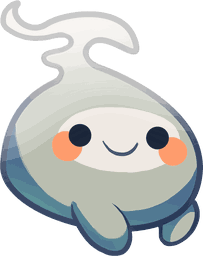
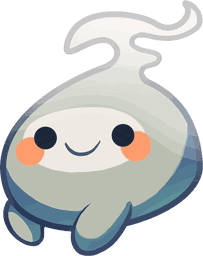
Practice: animated squishies, hurt looks, art as drawn, rigged Antbun
- Sprites now face the way the artist drew them (no mirroring).
- Each squishy has a healthy and a hurt look (the '2' pictures), shown
  below half health.
- Movement per kind: Chomp and Moley waddle, Skitter hops, ChompKing and
  the Brood Queen stomp with a squash on landing, ghosts float, the Flyer
  flies, the Kamikaze rolls.
- The Antbun is built from the parts in the artist's PSD: body poses for
  the hop, flopping ears, blinking, an eye-pop and open mouth when hit,
  the pink skull-showing Hurt set below half health, and the nine-frame
  death animation (shock, burst into blobs, puddle).

Claude-Session: https://claude.ai/code/session_01KjbiH1Gxo3FA48ifQDakKd

diff --git a/practice.js b/practice.js
@@ -10,19 +10,23 @@ const Practice = (() => {
     mortar:  { name: 'Mortar', cost: 225, every: 7, dmg: 90, splash: 1.4, recharge: 12, hp: 100, blurb: 'big blast every 7 s' },
     mg:      { name: 'Machine gun', cost: 300, every: 1 / 3, dmg: 10, speed: 9, recharge: 12, hp: 100, blurb: '3 bullets a second' },
   };
-  // the squishies (art in art/squishies). size is relative to a cell; 'from' is the first level they appear
+  // the squishies (art in art/squishies, drawn facing left as supplied). size is relative to a cell;
+  // 'from' is the first level they appear; look.hurt shows once they are below half health
   const SQUISHIES = {
-    chomp:      { name: 'Chomp',      hp: 100, speed: .20, chomp: 25, size: 1.0,  from: 1, art: ['chomp1', 'chomp2'], color: '#b8d0a8' },
-    skitter:    { name: 'Skitter',    hp: 60,  speed: .42, chomp: 25, size: .74,  from: 2, art: ['skitter1', 'skitter2'], color: '#d49496' },
-    chompking:  { name: 'ChompKing',  hp: 320, speed: .14, chomp: 35, size: 1.3,  from: 3, art: ['chompking'], color: '#9ec9c0' },
-    antbun:     { name: 'Antbun',     hp: 200, speed: .26, chomp: 25, size: 1.0,  from: 4, art: ['antbun1', 'antbun3'], dead: 'antbunskelly', color: '#bda7cd' },
-    kamikaze:   { name: 'Kamikaze',   hp: 90,  speed: .30, chomp: 0,  size: .92,  from: 5, art: ['kamikaze1', 'kamikaze2'], color: '#ddb8a4', boom: true },
-    ghost:      { name: 'Ghost',      hp: 80,  speed: .30, chomp: 25, size: 1.0,  from: 6, art: ['ghost1', 'ghost2'], color: '#a6a0aa', pass: 1, alpha: .85 },
-    flying:     { name: 'Flyer',      hp: 70,  speed: .36, chomp: 0,  size: .9,   from: 7, art: ['flying1', 'flying2'], color: '#b9bcc5', pass: 99, fly: true },
-    moley:      { name: 'Moley',      hp: 150, speed: .22, chomp: 30, size: .95,  from: 8, art: ['moley'], color: '#e0c888', digs: true },
-    broodqueen: { name: 'Brood Queen', hp: 900, speed: .10, chomp: 40, size: 1.4, from: 6, art: ['broodqueen1', 'broodqueen2'], color: '#c0acb6', boss: true, brood: 9 },
-    ghostking:  { name: 'Ghost King', hp: 700, speed: .16, chomp: 35, size: 1.35, from: 9, art: ['ghostking'], color: '#aca9a2', boss: true, pass: 2, alpha: .85 },
+    chomp:      { name: 'Chomp',      hp: 100, speed: .20, chomp: 25, size: 1.0,  from: 1, look: { ok: 'chomp1', hurt: 'chomp2' }, motion: 'waddle', color: '#b8d0a8' },
+    skitter:    { name: 'Skitter',    hp: 60,  speed: .42, chomp: 25, size: .74,  from: 2, look: { ok: 'skitter1', hurt: 'skitter2' }, motion: 'hop', color: '#d49496' },
+    chompking:  { name: 'ChompKing',  hp: 320, speed: .14, chomp: 35, size: 1.3,  from: 3, look: { ok: 'chompking1', hurt: 'chompking2' }, motion: 'stomp', color: '#9ec9c0' },
+    antbun:     { name: 'Antbun',     hp: 200, speed: .26, chomp: 25, size: 1.05, from: 4, look: { ok: 'antbun1' }, motion: 'hop', rig: true, color: '#bda7cd' },
+    kamikaze:   { name: 'Kamikaze',   hp: 90,  speed: .30, chomp: 0,  size: .92,  from: 5, look: { ok: 'kamikaze1', hurt: 'kamikaze2' }, motion: 'roll', color: '#ddb8a4', boom: true },
+    ghost:      { name: 'Ghost',      hp: 80,  speed: .30, chomp: 25, size: 1.0,  from: 6, look: { ok: 'ghost1', hurt: 'ghost2' }, motion: 'float', color: '#a6a0aa', pass: 1, alpha: .88 },
+    flying:     { name: 'Flyer',      hp: 70,  speed: .36, chomp: 0,  size: .9,   from: 7, look: { ok: 'flying1', hurt: 'flying2' }, motion: 'fly', color: '#b9bcc5', pass: 99, fly: true },
+    moley:      { name: 'Moley',      hp: 150, speed: .22, chomp: 30, size: .95,  from: 8, look: { ok: 'moley' }, motion: 'waddle', color: '#e0c888', digs: true },
+    broodqueen: { name: 'Brood Queen', hp: 900, speed: .10, chomp: 40, size: 1.4, from: 6, look: { ok: 'broodqueen1', hurt: 'broodqueen2' }, motion: 'stomp', color: '#c0acb6', boss: true, brood: 9 },
+    ghostking:  { name: 'Ghost King', hp: 700, speed: .16, chomp: 35, size: 1.35, from: 9, look: { ok: 'ghostking' }, motion: 'float', color: '#aca9a2', boss: true, pass: 2, alpha: .88 },
   };
+  // the Antbun is a rigged character: separate parts in a 320-wide box, positions from the artist's PSD
+  const ANTBUN = {"parts": {"dead_leftarm": [65, 18, 88, 116], "dead_body": [0, 43, 242, 210], "dead_skull": [16, 91, 177, 127], "dead_arm": [155, 189, 46, 40], "dead_rightear": [153, 31, 167, 106], "hurt_leftear": [65, 20, 88, 116], "hurt_body": [0, 43, 243, 210], "hurt_righteyeclose": [98, 161, 31, 10], "hurt_righteyeopen": [98, 154, 30, 30], "hurt_arm": [165, 170, 48, 53], "hurt_rightear": [140, 31, 177, 131], "leftear": [68, 0, 132, 131], "body": [0, 55, 250, 198], "body2": [10, 87, 239, 179], "body3": [10, 87, 242, 176], "eyesopen": [31, 149, 98, 36], "rightear": [140, 31, 177, 131], "eyepopping": [96, 141, 58, 58], "eyesclose": [32, 155, 98, 15], "arm": [166, 171, 45, 52]}, "box": [320, 266], "death": {"w": 320, "h": 322, "body": [50, 95, 234, 187]}};
+  const ANTBUN_PARTS = Object.keys(ANTBUN.parts);
   const SPRITES = {};   // art key -> Image
   function levelSpec(n) {
     const weights = {};
@@ -63,7 +67,7 @@ const Practice = (() => {
       S.lastRows.push(row); if (S.lastRows.length > 2) S.lastRows.shift();
     }
     const x = opts.x != null ? opts.x : k.digs ? 3 + Math.random() * (COLS - 5) : COLS + .4 + Math.random() * .3;
-    const sq = { type, k, row, x, hp: k.hp, art: k.art[Math.floor(Math.random() * k.art.length)], phase: Math.random() * 7,
+    const sq = { type, k, row, x, hp: k.hp, phase: Math.random() * 7, blink: 2 + Math.random() * 3,
       eating: null, flash: 0, wob: 0, pass: k.pass || 0, passedCol: -1, brood: k.brood || 0, rise: k.digs ? 1 : 0 };
     S.squishies.push(sq);
     if (k.digs) S.fx.push({ kind: 'dirt', x, row, t: 0 });
@@ -77,7 +81,8 @@ const Practice = (() => {
     if (sq.hp <= 0 && !sq.dead) {
       sq.dead = true;
       S.fx.push({ kind: 'splat', x: sq.x, row: sq.row, t: 0, color: sq.k.color, size: sq.k.size });
-      S.fx.push({ kind: 'melt', x: sq.x, row: sq.row, t: 0, art: sq.k.dead || sq.art, size: sq.k.size, bones: !!sq.k.dead, fly: !!sq.k.fly });
+      if (sq.k.rig) S.fx.push({ kind: 'abdeath', x: sq.x, row: sq.row, t: 0, size: sq.k.size });
+      else S.fx.push({ kind: 'melt', x: sq.x, row: sq.row, t: 0, art: lookOf(sq), size: sq.k.size, fly: !!sq.k.fly });
     }
   }
 
@@ -181,7 +186,7 @@ const Practice = (() => {
     S.shells = S.shells.filter(s => !s.gone);
     // effects
     for (const f of S.fx) f.t += dt;
-    S.fx = S.fx.filter(f => f.t < (f.kind === 'boom' ? .5 : f.kind === 'splat' || f.kind === 'melt' ? .6 : .8));
+    S.fx = S.fx.filter(f => f.t < (f.kind === 'boom' ? .5 : f.kind === 'splat' || f.kind === 'melt' ? .6 : f.kind === 'abdeath' ? 1.4 : .8));
     for (const f of S.floats) f.t += dt;
     S.floats = S.floats.filter(f => f.t < 1);
     S.squishies = S.squishies.filter(s => !s.dead);
@@ -283,22 +288,57 @@ const Practice = (() => {
     g.globalAlpha = alpha; g.drawImage(im, x - iw / 2, y - ih, iw, ih); g.globalAlpha = 1;
     return true;
   }
+  const lookOf = sq => (sq.k.look.hurt && sq.hp < sq.k.hp * .5) ? sq.k.look.hurt : sq.k.look.ok;
+  // how each kind of squishy moves: returns {dy (cells), rot, sx, sy}
+  function motionOf(sq) {
+    const t = sq.wob, k = sq.k, m = k.motion;
+    if (sq.eating) return { dy: 0, rot: Math.sin(t * 16) * .06, sx: 1, sy: 1 };
+    if (m === 'hop' || m === 'stomp') {
+      const P = m === 'hop' ? (k.rig ? .55 : .42) : 1.1, hopH = m === 'hop' ? .2 : .12;
+      const ph = ((t + sq.phase) / P) % 1, land = Math.max(0, 1 - ph * 5), air = Math.sin(ph * Math.PI);
+      return { dy: -air * hopH, rot: 0, sx: 1 + .14 * land - .05 * air, sy: 1 - .18 * land + .07 * air, ph };
+    }
+    if (m === 'waddle') { const s = Math.sin(t * 7 + sq.phase); return { dy: -Math.abs(s) * .04, rot: s * .07, sx: 1 + .03 * Math.abs(s), sy: 1 - .03 * Math.abs(s) }; }
+    if (m === 'float') return { dy: -.1 - .1 * Math.sin(t * 2.5 + sq.phase), rot: .05 * Math.sin(t * 1.7 + sq.phase), sx: 1, sy: 1 };
+    if (m === 'fly') return { dy: -.28 - .08 * Math.sin(t * 5 + sq.phase), rot: -.08, sx: 1, sy: 1 };
+    if (m === 'roll') return { dy: -Math.abs(Math.sin(t * 6)) * .03, rot: -(COLS - sq.x) * 3.2, sx: 1, sy: 1 };
+    return { dy: 0, rot: 0, sx: 1, sy: 1 };
+  }
+  // the rigged Antbun: parts drawn in order, ears flopping with the hop, blinking, hit reaction, hurt set below half health
+  function drawAntbun(g, sq, w, mo) {
+    const f = w / ANTBUN.box[0], hurt = sq.hp < sq.k.hp * .5, hit = sq.flash > 0;
+    const part = (name, rot = 0, px = 0, py = 0) => {
+      const b = ANTBUN.parts[name], im = SPRITES['antbun/' + name]; if (!b || !im || !im.complete) return;
+      g.save(); g.translate((b[0] + px) * f, (b[1] + py) * f); g.rotate(rot); g.drawImage(im, -px * f, -py * f, b[2] * f, b[3] * f); g.restore();
+    };
+    const flop = mo.ph == null ? 0 : Math.sin(mo.ph * Math.PI * 2 - .8) * .18;
+    g.save(); g.translate(-ANTBUN.box[0] * f / 2, -ANTBUN.box[1] * f);   // parts are placed from the box's top-left; we draw from the feet
+    if (hurt) {
+      part('hurt_rightear', -flop * .8, 12, 118); part('hurt_body'); part('hurt_leftear', flop, 20, 112); part('hurt_arm');
+      part(sq.blink < .15 ? 'hurt_righteyeclose' : 'hurt_righteyeopen');
+    } else {
+      part('rightear', -flop * .8, 12, 118);
+      part(hit ? 'body3' : mo.ph != null && mo.ph < .2 ? 'body2' : 'body');
+      part('leftear', flop, 20, 128); part('arm');
+      if (hit) part('eyepopping'); else part(sq.blink < .15 ? 'eyesclose' : 'eyesopen');
+    }
+    g.restore();
+  }
   function drawSquishy(g, sq, x, y, s) {
-    const k = sq.k, w = s * k.size;
-    const bob = k.fly ? Math.sin(sq.wob * 5 + sq.phase) * s * .12 - s * .35 : 0;
-    const sx = 1 + .06 * Math.sin(sq.wob * 7 + sq.phase), sy = 1 - .06 * Math.sin(sq.wob * 7 + sq.phase);
+    const k = sq.k, w = s * k.size, mo = motionOf(sq);
+    if (sq.rise <= 0) sq.blink -= 1 / 60; if (sq.blink < 0) sq.blink = 2 + Math.random() * 3;
     const foot = y + s * .42;
     g.save();
-    // shadow
-    g.fillStyle = 'rgba(0,0,0,.16)'; g.beginPath(); g.ellipse(x, foot, w * .38, w * .1, 0, 0, 7); g.fill();
-    g.translate(x, foot + bob);
+    // shadow stays on the ground; smaller when the squishy is in the air
+    const air = Math.max(0, -mo.dy); g.fillStyle = 'rgba(0,0,0,.16)'; g.beginPath(); g.ellipse(x, foot, w * .38 * (1 - air * .4), w * .1 * (1 - air * .4), 0, 0, 7); g.fill();
+    g.translate(x, foot + mo.dy * s);
     if (sq.rise > 0) { g.beginPath(); g.rect(-w, -w * 2, w * 2, w * 2 * (1 - sq.rise)); g.clip(); g.translate(0, w * sq.rise); }   // moley rising out of the ground
-    if (sq.eating) g.rotate(Math.sin(sq.wob * 16) * .06);
-    g.scale(sx, sy);
-    if (!drawSprite(g, sq.art, 0, 0, w, k.alpha || 1)) {
-      g.fillStyle = k.color; g.beginPath(); g.ellipse(0, -w * .4, w * .4, w * .4, 0, 0, 7); g.fill();
-    }
-    if (sq.flash > 0) { g.globalCompositeOperation = 'lighter'; drawSprite(g, sq.art, 0, 0, w, .7); g.globalCompositeOperation = 'source-over'; }
+    if (k.motion === 'roll') { g.translate(0, -w * .45); g.rotate(mo.rot); g.translate(0, w * .45); } else g.rotate(mo.rot);
+    g.scale(mo.sx, mo.sy);
+    if (k.alpha) g.globalAlpha = k.alpha;
+    if (k.rig) drawAntbun(g, sq, w, mo);
+    else if (!drawSprite(g, lookOf(sq), 0, 0, w, k.alpha || 1)) { g.fillStyle = k.color; g.beginPath(); g.ellipse(0, -w * .4, w * .4, w * .4, 0, 0, 7); g.fill(); }
+    if (sq.flash > 0 && !k.rig) { g.globalCompositeOperation = 'lighter'; drawSprite(g, lookOf(sq), 0, 0, w, .7); g.globalCompositeOperation = 'source-over'; }
     g.restore();
     if (k.boss) {   // boss health bar
       g.fillStyle = 'rgba(0,0,0,.35)'; g.fillRect(x - w * .35, foot + s * .08, w * .7, s * .07);
@@ -359,11 +399,20 @@ const Practice = (() => {
         for (let i = 0; i < 7; i++) { const a = i * .9 + f.x, d = cell * f.size * (.2 + p * .6); ctx.beginPath(); ctx.arc(x + Math.cos(a) * d, y + Math.sin(a) * d * .6, cell * .08 * (1 - p) + 1, 0, 7); ctx.fill(); }
         ctx.globalAlpha = 1;
       } else if (f.kind === 'melt') {
-        const p = f.t / .6, w = cell * f.size, foot = y + cell * .42 - (f.fly ? cell * .35 : 0);
+        const p = f.t / .6, w = cell * f.size, foot = y + cell * .42 - (f.fly ? cell * .28 : 0);
         ctx.save(); ctx.translate(x, foot);
         if (f.bones) { drawSprite(ctx, f.art, 0, 0, w, 1 - p); }
         else { ctx.scale(1 + p * .5, Math.max(.05, 1 - p)); drawSprite(ctx, f.art, 0, 0, w, 1 - p * .7); }
         ctx.restore();
+      } else if (f.kind === 'abdeath') {
+        // nine frames from the artist's death animation, then the puddle fades
+        const n = Math.min(9, 1 + Math.floor(f.t / .1)), im = SPRITES['antbun/death' + n];
+        if (im && im.complete) {
+          const w = cell * f.size, fd = w / ANTBUN.death.body[2], bb = ANTBUN.death.body, foot = y + cell * .42;
+          ctx.globalAlpha = f.t > 1 ? Math.max(0, 1 - (f.t - 1) / .4) : 1;
+          ctx.drawImage(im, x - (bb[0] + bb[2] / 2) * fd, foot - (bb[1] + bb[3]) * fd, ANTBUN.death.w * fd, ANTBUN.death.h * fd);
+          ctx.globalAlpha = 1;
+        }
       } else if (f.kind === 'dirt') {
         const p = f.t / .8; ctx.fillStyle = `rgba(110,75,40,${1 - p})`;
         for (let i = 0; i < 8; i++) { const a = i * .8 + .3; ctx.beginPath(); ctx.arc(x + Math.cos(a) * p * cell * .7, y + cell * .3 - Math.sin(a) * p * cell * .9 + p * p * cell * .8, cell * .07, 0, 7); ctx.fill(); }
@@ -534,7 +583,11 @@ const Practice = (() => {
     cv = root.querySelector('#pcv'); ctx = cv.getContext('2d');
     document.body.classList.add('noscroll');
     root.querySelector('#phome').onclick = () => { if (opts.home) opts.home(); };
-    for (const k in SQUISHIES) for (const a of [...SQUISHIES[k].art, SQUISHIES[k].dead].filter(Boolean)) if (!SPRITES[a]) { const im = new Image(); im.src = 'art/squishies/' + a + '.png'; SPRITES[a] = im; }
+    const arts = [];
+    for (const k in SQUISHIES) arts.push(...Object.values(SQUISHIES[k].look));
+    for (const n of ANTBUN_PARTS) arts.push('antbun/' + n);
+    for (let i = 1; i <= 9; i++) arts.push('antbun/death' + i);
+    for (const a of arts) if (!SPRITES[a]) { const im = new Image(); im.src = 'art/squishies/' + a + '.png'; SPRITES[a] = im; }
     S = null; newLevel(sv.level || 1);
     renderShop(); layout(); refreshShop();
     cv.addEventListener('pointerdown', onCanvasTap);

diff --git a/sw.js b/sw.js
@@ -1,9 +1,9 @@
 // Offline support. Always tries the network first so updates appear straight
 // away; falls back to the saved copy when there is no connection.
-const CACHE = 'latin-v6';
+const CACHE = 'latin-v7';
 const FILES = ['./', 'index.html', 'app.css', 'app.js', 'vocab.js', 'memory.js', 'phrases.js', 'effects.js', 'practice.js', 'sync.js',
   'manifest.webmanifest',
-  ...['chomp1','chomp2','skitter1','skitter2','chompking','antbun1','antbun3','antbunskelly','kamikaze1','kamikaze2','ghost1','ghost2','flying1','flying2','moley','broodqueen1','broodqueen2','ghostking'].map(a => 'art/squishies/' + a + '.png'), 'icons/apple-touch-icon.png', 'icons/icon-192.png', 'icons/icon-512.png', 'icons/favicon-32.png'];
+  ...["chomp1", "chomp2", "skitter1", "skitter2", "chompking1", "chompking2", "antbun1", "kamikaze1", "kamikaze2", "ghost1", "ghost2", "flying1", "flying2", "moley", "broodqueen1", "broodqueen2", "ghostking", "antbun/dead_leftarm", "antbun/dead_body", "antbun/dead_skull", "antbun/dead_arm", "antbun/dead_rightear", "antbun/hurt_leftear", "antbun/hurt_body", "antbun/hurt_righteyeclose", "antbun/hurt_righteyeopen", "antbun/hurt_arm", "antbun/hurt_rightear", "antbun/leftear", "antbun/body", "antbun/body2", "antbun/body3", "antbun/eyesopen", "antbun/rightear", "antbun/eyepopping", "antbun/eyesclose", "antbun/arm", "antbun/death1", "antbun/death2", "antbun/death3", "antbun/death4", "antbun/death5", "antbun/death6", "antbun/death7", "antbun/death8", "antbun/death9"].map(a => 'art/squishies/' + a + '.png'), 'icons/apple-touch-icon.png', 'icons/icon-192.png', 'icons/icon-512.png', 'icons/favicon-32.png'];
 
 self.addEventListener('install', e => {
   e.waitUntil(caches.open(CACHE).then(c => c.addAll(FILES)).then(() => self.skipWaiting()));
